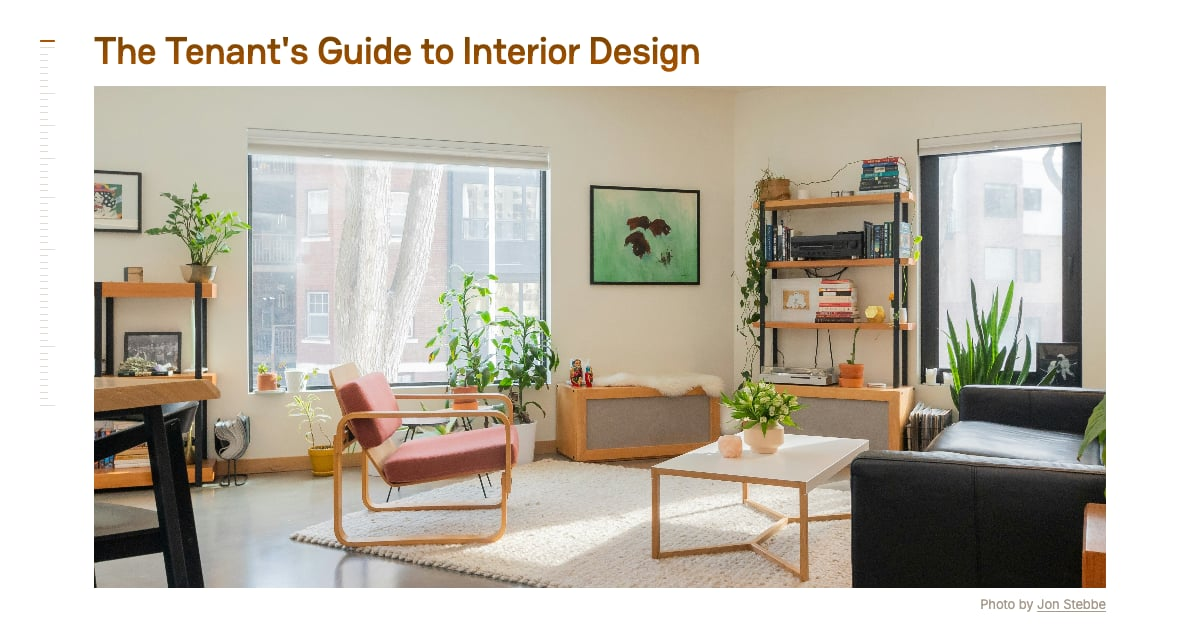
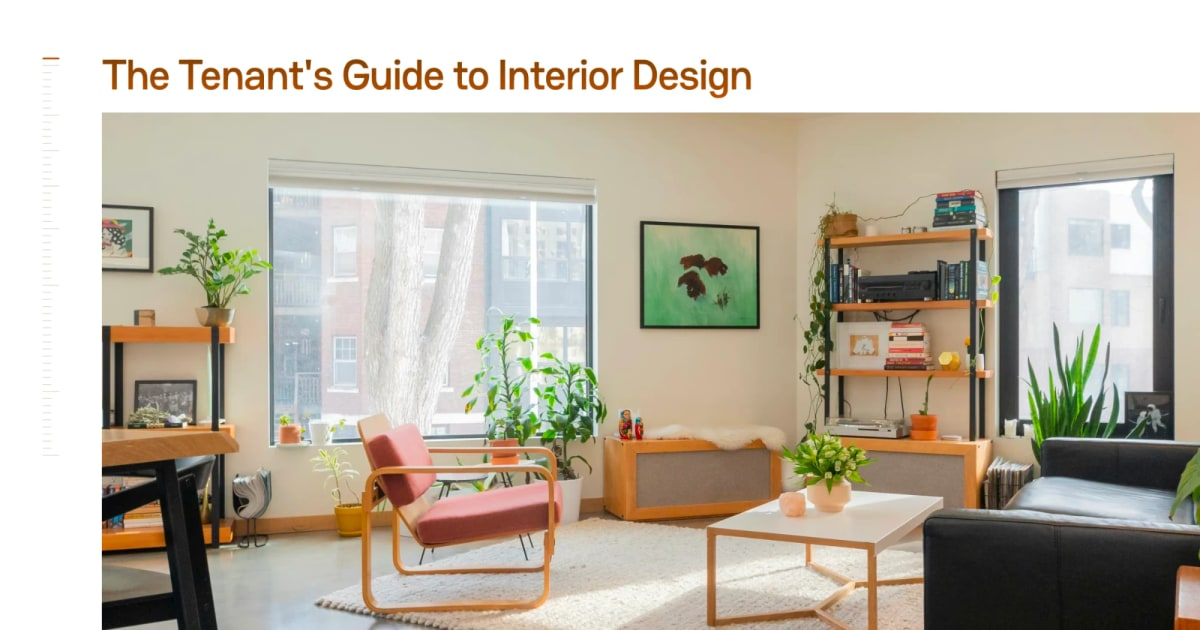
Use Saurabh's screenshot as the preview card
The card is now a fixed image, so og.html and og.js, which drew the old
one, are gone.

diff --git a/index.html b/index.html
@@ -16,8 +16,8 @@
        screens, which do not take an SVG. -->
   <link rel="icon" href="assets/favicon.svg" type="image/svg+xml" />
   <link rel="apple-touch-icon" href="assets/apple-touch-icon.png" />
-  <!-- What a shared link unfurls into. The picture is assets/og.jpg, drawn from
-       og.html by `node og.js`; these addresses have to be absolute. -->
+  <!-- What a shared link unfurls into. The picture is assets/og.jpg, a
+       1200x630 image of the guide's opening; these addresses have to be absolute. -->
   <meta property="og:type" content="website" />
   <meta property="og:site_name" content="saurabh.so" />
   <meta property="og:title" content="The Tenant's Guide to Interior Design" />
@@ -28,7 +28,7 @@
   <meta property="og:image:height" content="630" />
   <meta property="og:image:alt" content="The Tenant's Guide to Interior Design, beside a sunlit living room with a pink armchair and plants." />
   <meta name="twitter:card" content="summary_large_image" />
-  <link rel="stylesheet" href="assets/styles.css?v=1791358277887" />
+  <link rel="stylesheet" href="assets/styles.css?v=1791358970007" />
 </head>
 <body>
   <div class="reader" id="reader">
@@ -1133,6 +1133,6 @@
     </div>
   </div>
 
-  <script src="assets/script.js?v=1791358277887"></script>
+  <script src="assets/script.js?v=1791358970007"></script>
 </body>
 </html>

diff --git a/build.js b/build.js
@@ -719,8 +719,8 @@ const html = `<!DOCTYPE html>
        screens, which do not take an SVG. -->
   <link rel="icon" href="assets/favicon.svg" type="image/svg+xml" />
   <link rel="apple-touch-icon" href="assets/apple-touch-icon.png" />
-  <!-- What a shared link unfurls into. The picture is assets/og.jpg, drawn from
-       og.html by \`node og.js\`; these addresses have to be absolute. -->
+  <!-- What a shared link unfurls into. The picture is assets/og.jpg, a
+       1200x630 image of the guide's opening; these addresses have to be absolute. -->
   <meta property="og:type" content="website" />
   <meta property="og:site_name" content="saurabh.so" />
   <meta property="og:title" content="The Tenant's Guide to Interior Design" />
